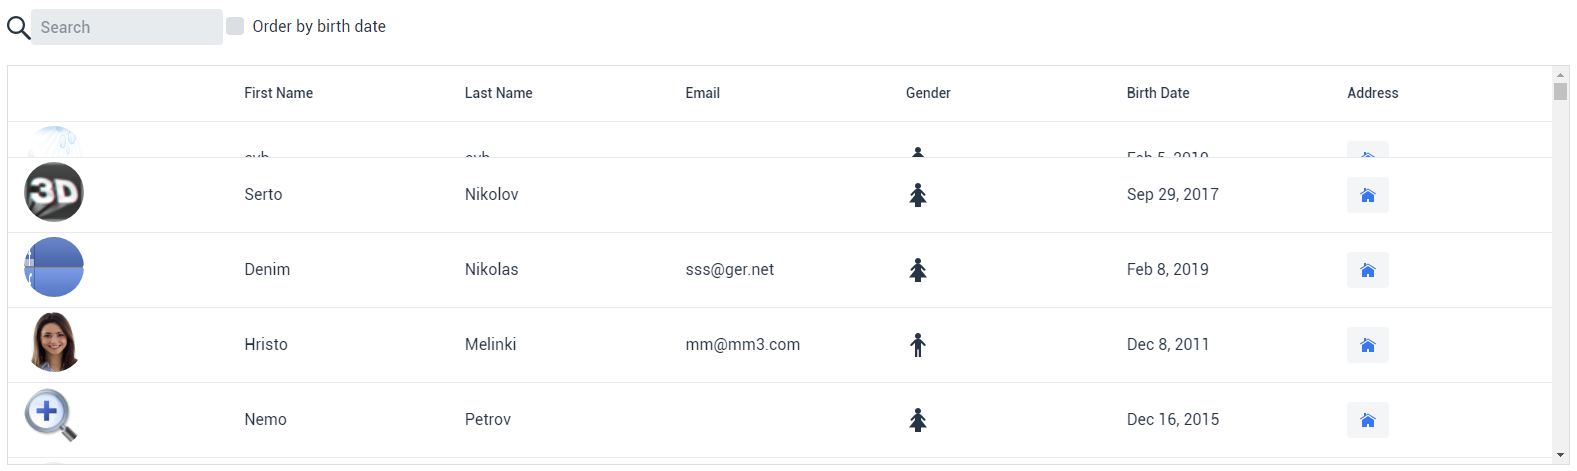
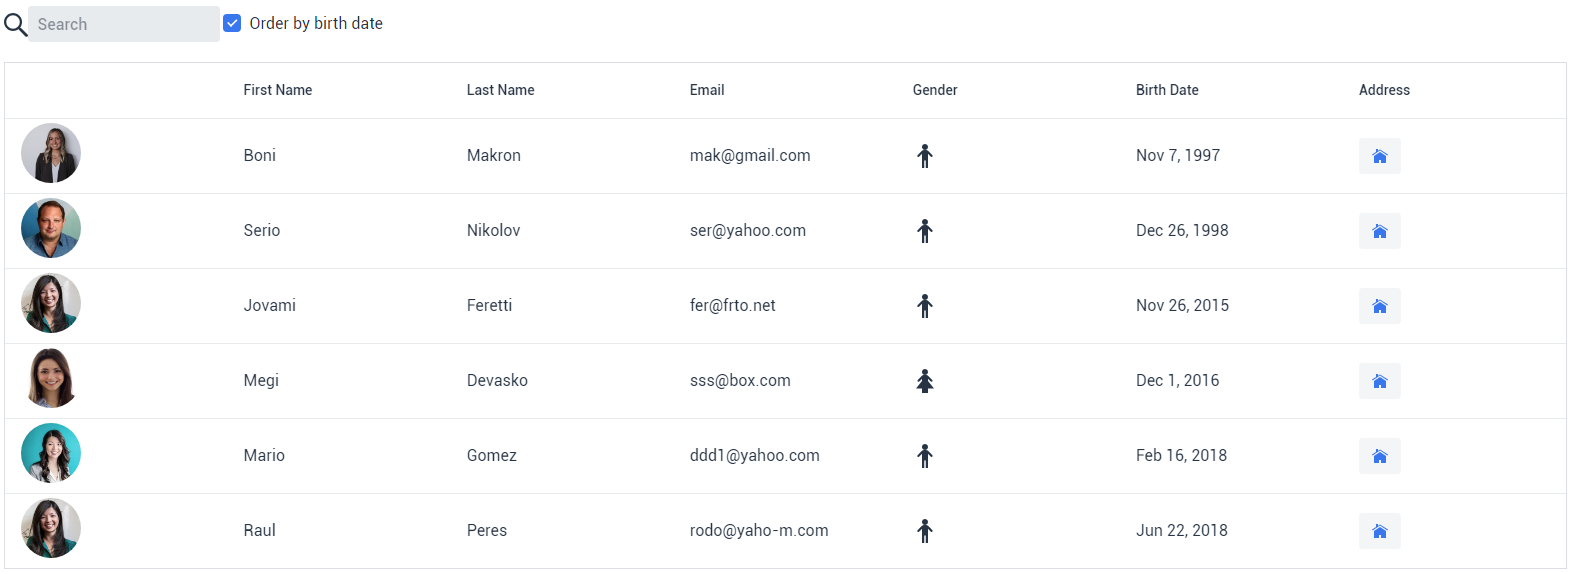
screen shot and session open/close per page view

diff --git a/src/main/java/net/ravendb/demo/presenters/PatientPresenter.java b/src/main/java/net/ravendb/demo/presenters/PatientPresenter.java
@@ -46,7 +46,7 @@ public class PatientPresenter implements PatientViewListener {
 			AttachmentName[] names = session.advanced().attachments().getNames(patient);
 			if (names.length > 0) {
 				try (CloseableAttachmentResult result = session.advanced().attachments().get(patient,
-						names[0].getName())) {
+						names[0].getName())) {					
 					Attachment attachment = new Attachment();
 					attachment.setName(names[0].getName());
 					attachment.setMimeType(names[0].getContentType());
@@ -114,6 +114,7 @@ public class PatientPresenter implements PatientViewListener {
 			session.advanced().attachments().store(patient, patient.getAttachment().getName(),
 					patient.getAttachment().getInputStream(), patient.getAttachment().getMimeType());
 		}
+		
 		session.saveChanges();
 
 	}
@@ -137,7 +138,7 @@ public class PatientPresenter implements PatientViewListener {
 		}
 
 		session.saveChanges();
-
+		session.advanced().clear();
 	}
 
 	@Override

diff --git a/src/main/java/net/ravendb/demo/views/PatientView.java b/src/main/java/net/ravendb/demo/views/PatientView.java
@@ -213,6 +213,7 @@ public class PatientView extends VerticalLayout implements PatientViewable {
 				visits.setEnabled(false);
 			}
 		});
+		grid.setHeightByRows(true);
 		return grid;
 	}
 
